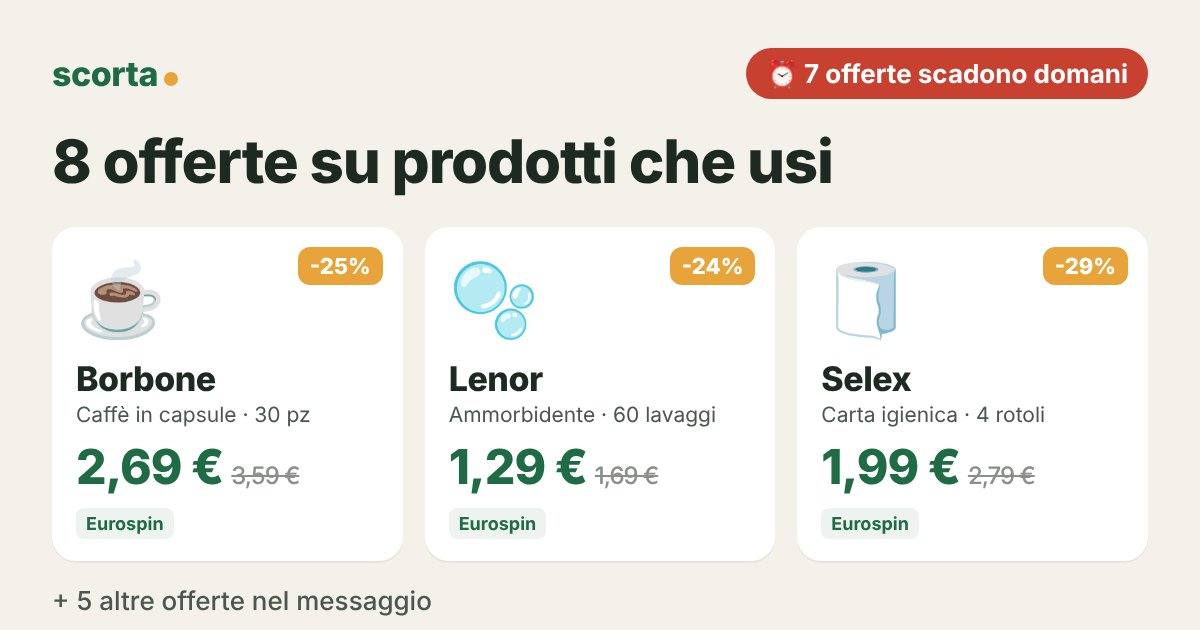
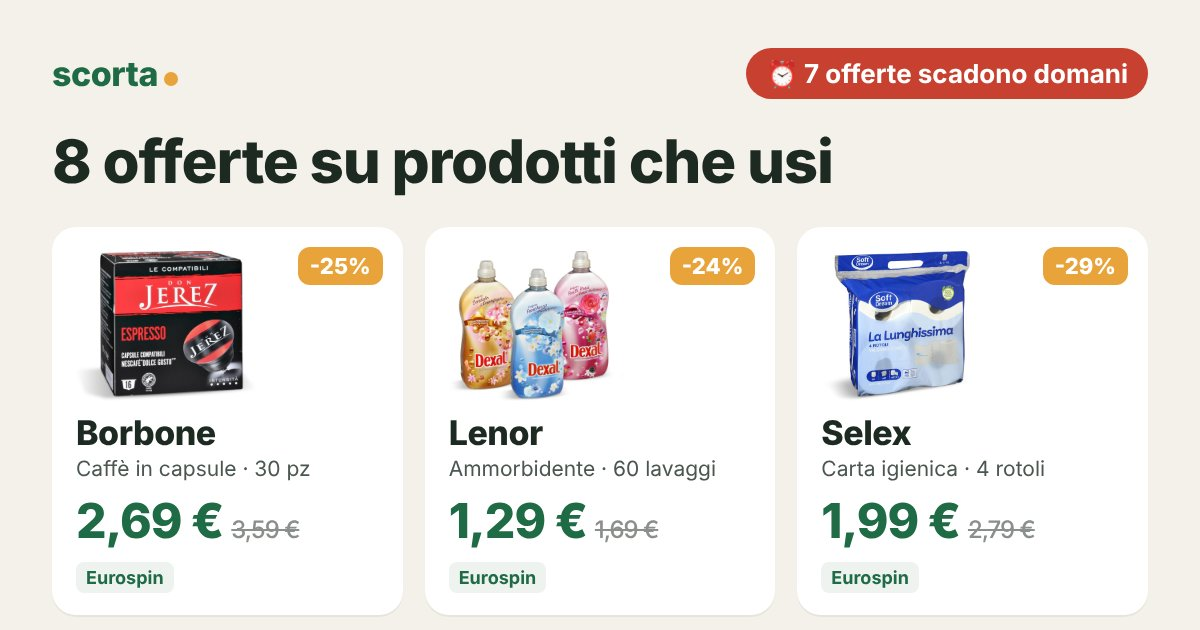
Pagine offerte 2026-10-31
Claude-Session: https://claude.ai/code/session_012BnByD7nnfoHswjF7TKs2L

diff --git a/o/100d51ae/index.html b/o/100d51ae/index.html
@@ -6,4 +6,4 @@
 <style>body{margin:0;font-family:-apple-system,system-ui,sans-serif;background:#F4F1EA;color:#1d2a22}main{max-width:560px;margin:auto;padding:16px}img{width:100%;border-radius:14px}
 ul{list-style:none;padding:0}li{display:flex;gap:10px;align-items:center;background:#fff;border-radius:12px;padding:10px 12px;margin:8px 0}.ic{font-size:26px}.th{width:44px;height:44px;object-fit:contain;background:#fff}li div:nth-child(2){flex:1}small{color:#6b746e}.pr{text-align:right;white-space:nowrap}s{color:#8a8f8b;font-size:13px}
 .btn{display:block;text-align:center;background:#1f6b45;color:#fff;font-weight:700;font-size:18px;padding:16px;border-radius:14px;text-decoration:none;margin:18px 0}.map{display:block;color:#1f6b45;margin:6px 0;text-decoration:none}</style></head>
-<body><main><img src="card.jpg" alt=""><a class="btn" href="https://tally.so/r/OQQV7k?f=F011&amp;a=A062,A063,A064,A065,A066,A067,A068,A069">✅ Segna cosa hai comprato</a><ul><li><span class=ic>☕</span><div><b>Don Jerez capsule caffè espresso, 30 pz 210 g</b><br><small>Eurospin · scade domani</small></div><div class="pr"><s>3,59 €</s> <b>2,69 €</b></div></li><li><span class=ic>🫧</span><div><b>Dexal ammorbidente concentrato profumo assortito, 60 lavaggi 1,5 l</b><br><small>Eurospin · scade domani</small></div><div class="pr"><s>1,69 €</s> <b>1,29 €</b></div></li><li><span class=ic>🧻</span><div><b>Soft Dream carta igienica la lunghissima 4 rotoli, 2 veli, 600 strappi</b><br><small>Eurospin · scade domani</small></div><div class="pr"><s>2,79 €</s> <b>1,99 €</b></div></li><li><span class=ic>🍞</span><div><b>Ca&#x27; Bianca crackers salati 750 g</b><br><small>MD · scade domani</small></div><div class="pr"><s>1,79 €</s> <b>1,55 €</b></div></li><li><span class=ic>🥤</span><div><b>Casado bevanda cola 2 l</b><br><small>MD · scade domani</small></div><div class="pr"><s>0,75 €</s> <b>0,65 €</b></div></li><li><span class=ic>🍝</span><div><b>Divella pasta di semola formati normali 500 g</b><br><small>Conad · scade domani</small></div><div class="pr"><b>0,49 €</b></div></li><li><span class=ic>🍪</span><div><b>Cabrioni biscotti rustici integrali/Ciocofroll 650 g</b><br><small>Conad · scade domani</small></div><div class="pr"><b>1,55 €</b></div></li><li><span class=ic>🫘</span><div><b>Miele legumi scottati al vapore vari tipi 360 g</b><br><small>Conad · fino al 31/12</small></div><div class="pr"><b>0,69 €</b></div></li></ul><a class="map" href="https://www.google.com/maps/search/?api=1&query=Eurospin%20Via%20Cavalleggeri%20d%27Aosta%2C%2011%20Napoli">📍 Eurospin · Via Cavalleggeri d&#x27;Aosta, 11, Napoli</a><a class="map" href="https://www.google.com/maps/search/?api=1&query=MD%20Via%20Diocleziano%2C%20257%20Napoli">📍 MD · Via Diocleziano, 257, Napoli</a><a class="map" href="https://www.google.com/maps/search/?api=1&query=Conad%20Via%20Diocleziano%20470%20Napoli">📍 Conad · Via Diocleziano 470, Napoli</a><p><small>Prezzi e scadenze dai volantini delle insegne. Rispondi STOP su WhatsApp per non ricevere più avvisi.</small></p></main></body></html>
+<body><main><img src="card.jpg" alt=""><a class="btn" href="https://tally.so/r/OQQV7k?f=F011&amp;a=A062,A063,A064,A065,A066,A067,A068,A069">✅ Segna cosa hai comprato</a><ul><li><img class=th src=../../img/eurospin_14683001.jpg><div><b>Don Jerez capsule caffè espresso, 30 pz 210 g</b><br><small>Eurospin · scade domani</small></div><div class="pr"><s>3,59 €</s> <b>2,69 €</b></div></li><li><img class=th src=../../img/eurospin_18607201.jpg><div><b>Dexal ammorbidente concentrato profumo assortito, 60 lavaggi 1,5 l</b><br><small>Eurospin · scade domani</small></div><div class="pr"><s>1,69 €</s> <b>1,29 €</b></div></li><li><img class=th src=../../img/eurospin_11373801.jpg><div><b>Soft Dream carta igienica la lunghissima 4 rotoli, 2 veli, 600 strappi</b><br><small>Eurospin · scade domani</small></div><div class="pr"><s>2,79 €</s> <b>1,99 €</b></div></li><li><img class=th src=../../img/md_V006_p5_cabianca.jpg><div><b>Ca&#x27; Bianca crackers salati 750 g</b><br><small>MD · scade domani</small></div><div class="pr"><s>1,79 €</s> <b>1,55 €</b></div></li><li><img class=th src=../../img/md_V006_p4_casado.jpg><div><b>Casado bevanda cola 2 l</b><br><small>MD · scade domani</small></div><div class="pr"><s>0,75 €</s> <b>0,65 €</b></div></li><li><img class=th src=../../img/conad_V010_p17_divella.jpg><div><b>Divella pasta di semola formati normali 500 g</b><br><small>Conad · scade domani</small></div><div class="pr"><b>0,49 €</b></div></li><li><img class=th src=../../img/conad_V010_p19_cabrioni.jpg><div><b>Cabrioni biscotti rustici integrali/Ciocofroll 650 g</b><br><small>Conad · scade domani</small></div><div class="pr"><b>1,55 €</b></div></li><li><img class=th src=../../img/conad_V010_p13_miele.jpg><div><b>Miele legumi scottati al vapore vari tipi 360 g</b><br><small>Conad · fino al 31/12</small></div><div class="pr"><b>0,69 €</b></div></li></ul><a class="map" href="https://www.google.com/maps/search/?api=1&query=Eurospin%20Via%20Cavalleggeri%20d%27Aosta%2C%2011%20Napoli">📍 Eurospin · Via Cavalleggeri d&#x27;Aosta, 11, Napoli</a><a class="map" href="https://www.google.com/maps/search/?api=1&query=MD%20Via%20Diocleziano%2C%20257%20Napoli">📍 MD · Via Diocleziano, 257, Napoli</a><a class="map" href="https://www.google.com/maps/search/?api=1&query=Conad%20Via%20Diocleziano%20470%20Napoli">📍 Conad · Via Diocleziano 470, Napoli</a><p><small>Prezzi e scadenze dai volantini delle insegne. Rispondi STOP su WhatsApp per non ricevere più avvisi.</small></p></main></body></html>
